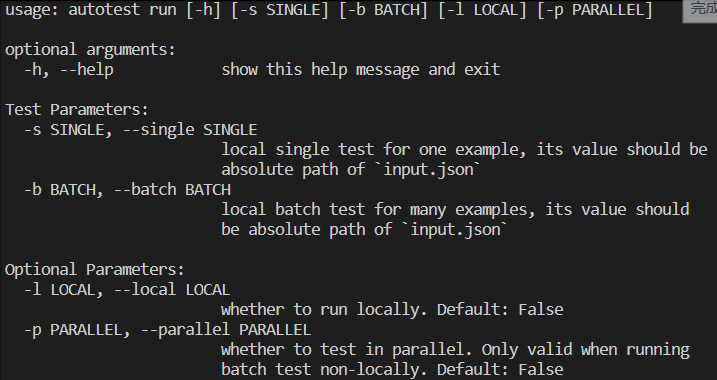
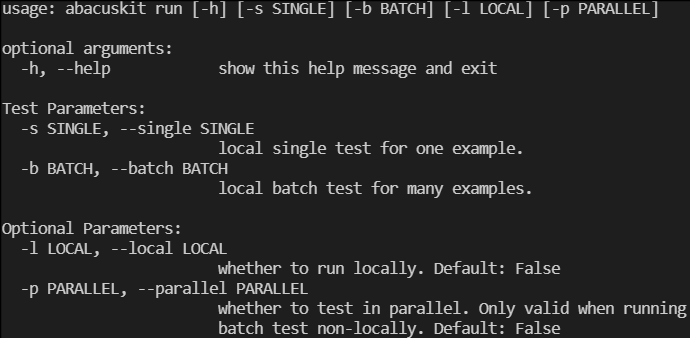
modify Fermi level to zero for band and dos plot

diff --git a/abacuskit/postprocess/plot.py b/abacuskit/postprocess/plot.py
@@ -25,9 +25,36 @@ def energy_minus_efermi(energy:Sequence , efermi:float) -> np.ndarray:
 
     return np.array(energy)-efermi
 
-
 class BandPlot:
     """Plot band structure"""
+
+    @classmethod
+    def set_vcband(cls, energy:Sequence) -> Tuple[namedtuple, namedtuple]:
+        """Separate valence and conduct band
+
+        :params energy: band energy after subtracting the Fermi level
+        """
+
+        e_T = energy.T
+        num_gt_Ef = (e_T > 0).sum(axis=1)
+
+        Band = namedtuple('Band', ['band_index', 'band', 'value', 'k_index'])
+
+        # valance band
+        band_vbm_index = np.where(num_gt_Ef == 0)[0]
+        band_vbm = e_T[band_vbm_index]
+        evbm = np.max(band_vbm)
+        k_vbm_index = np.where(band_vbm == evbm)[1]
+        vb = Band(band_vbm_index, band_vbm-evbm, evbm-evbm, k_vbm_index)
+
+        # conduct band
+        band_cbm_index = np.where(num_gt_Ef != 0)[0]
+        band_cbm= e_T[band_cbm_index]
+        ecbm = np.min(band_cbm)
+        k_cbm_index = np.where(band_cbm == ecbm)[1]
+        cb = Band(band_cbm_index, band_cbm-evbm, ecbm-evbm, k_cbm_index)
+
+        return vb, cb
 
     @classmethod
     def read(cls, filename:str_PathLike) -> Tuple[np.ndarray, np.ndarray]:
@@ -124,10 +151,10 @@ class BandPlot:
             color = 'black'
 
         kpoints, energy = cls.read(datafile)
-        energy = energy_minus_efermi(energy, efermi)
+        vb, cb = cls.set_vcband(energy_minus_efermi(energy, efermi))
 
-        ax.plot(kpoints, energy, lw=0.8, color=color, label=label)
-        cls.info(kpt.full_kpath, energy)
+        ax.plot(kpoints, np.vstack((vb.band, cb.band)).T, lw=0.8, color=color, label=label)
+        cls.info(kpt.full_kpath, vb, cb)
         index = kpt.label_special_k
         cls._set_figure(ax, index, energy_range)
 
@@ -160,16 +187,16 @@ class BandPlot:
         emax = np.inf
         for i, file in enumerate(datafile):
             kpoints, energy = cls.read(file)
-            energy = energy_minus_efermi(energy, efermi[i])
-            energy_min = np.min(energy)
-            energy_max = np.max(energy)
+            vb, cb = cls.set_vcband(energy_minus_efermi(energy, efermi[i]))
+            energy_min = np.min(vb)
+            energy_max = np.max(cb)
             if energy_min>emin:
                 emin = energy_min
             if energy_max<emax:
                 emax = energy_max
 
-            ax.plot(kpoints, energy, lw=0.8, color=color[i], label=label[i])
-            cls.info(kpt.full_kpath, energy)
+            ax.plot(kpoints, np.vstack((vb.band, cb.band)).T, lw=0.8, color=color[i], label=label[i])
+            cls.info(kpt.full_kpath, vb, cb)
         
         index = kpt.label_special_k
         cls._set_figure(ax, index, energy_range)
@@ -177,37 +204,15 @@ class BandPlot:
         plt.savefig(outfile)
 
     @classmethod
-    def bandgap(cls, energy:Sequence):
-        """Calculate band gap
-        
-        :params energy: band energy after subtracting the Fermi level
-        """
+    def bandgap(cls, vb:namedtuple, cb:namedtuple):
+        """Calculate band gap"""
 
-        e_T = energy.T
-        num_gt_Ef = (e_T > 0).sum(axis=1)
+        gap = cb.value-vb.value
 
-        Band = namedtuple('Band', ['band_index', 'band', 'value', 'k_index'])
-
-        # valance band
-        band_vbm_index = np.where(num_gt_Ef == 0)[0]
-        band_vbm = e_T[band_vbm_index]
-        evbm = np.max(band_vbm)
-        k_vbm_index = np.where(band_vbm == evbm)[1]
-        vbm = Band(band_vbm_index, band_vbm, evbm, k_vbm_index)
-
-        # conduct band
-        band_cbm_index = np.where(num_gt_Ef != 0)[0]
-        band_cbm= e_T[band_cbm_index]
-        ecbm = np.min(band_cbm)
-        k_cbm_index = np.where(band_cbm == ecbm)[1]
-        cbm = Band(band_cbm_index, band_cbm, ecbm, k_cbm_index)
-
-        gap = ecbm-evbm
-
-        return gap, vbm, cbm
+        return gap
 
     @classmethod
-    def info(cls, kpath:Sequence, energy:Sequence):
+    def info(cls, kpath:Sequence, vb:namedtuple, cb:namedtuple):
         """Output the information of band structure
         
         :params kpath: k-points path 
@@ -223,16 +228,16 @@ class BandPlot:
                     btype = "Indirect"
             return btype
 
-        gap, vbm, cbm = cls.bandgap(energy)
+        gap = cls.bandgap(vb, cb)
         print("--------------------------Band Structure--------------------------", flush=True)
-        print(f"{'Band character:'.ljust(30)}{band_type(vbm.k_index, cbm.k_index)}", flush=True)
+        print(f"{'Band character:'.ljust(30)}{band_type(vb.k_index, cb.k_index)}", flush=True)
         print(f"{'Band gap(eV):'.ljust(30)}{gap: .4f}", flush=True)
         print(f"{'Band index:'.ljust(30)}{'HOMO'.ljust(10)}{'LUMO'}", flush=True)
-        print(f"{''.ljust(30)}{str(vbm.band_index[-1]).ljust(10)}{str(cbm.band_index[0])}", flush=True)
-        print(f"{'Eigenvalue of VBM(eV):'.ljust(30)}{vbm.value: .4f}", flush=True)
-        print(f"{'Eigenvalue of CBM(eV):'.ljust(30)}{cbm.value: .4f}", flush=True)
-        vbm_k = np.unique(kpath[vbm.k_index], axis=0)
-        cbm_k = np.unique(kpath[cbm.k_index], axis=0)
+        print(f"{''.ljust(30)}{str(vb.band_index[-1]).ljust(10)}{str(cb.band_index[0])}", flush=True)
+        print(f"{'Eigenvalue of VBM(eV):'.ljust(30)}{vb.value: .4f}", flush=True)
+        print(f"{'Eigenvalue of CBM(eV):'.ljust(30)}{cb.value: .4f}", flush=True)
+        vbm_k = np.unique(kpath[vb.k_index], axis=0)
+        cbm_k = np.unique(kpath[cb.k_index], axis=0)
         print(f"{'Location of VBM'.ljust(30)}{' '.join(list_elem2str(vbm_k[0]))}", flush=True)
         for i, j in enumerate(vbm_k):
             if i != 0:
@@ -250,6 +255,49 @@ class DosPlot:
         if eval(string) <= 1e-20:
             string = "0"
         return string
+
+    @classmethod
+    def set_vcband(cls, energy:Sequence) -> Tuple[namedtuple, namedtuple]:
+        """Separate valence and conduct band
+
+        :params energy: band energy after subtracting the Fermi level
+        """
+
+        Band = namedtuple('Band', ['band', 'value'])
+
+        # valance band
+        band_vbm_index = np.where(energy <= 0)[0]
+        band_vbm = energy[band_vbm_index]
+        evbm = np.max(band_vbm)
+        vb = Band(band_vbm-evbm, evbm-evbm)
+
+        # conduct band
+        band_cbm_index = np.where(energy > 0)[0]
+        band_cbm= energy[band_cbm_index]
+        ecbm = np.min(band_cbm)
+        cb = Band(band_cbm-evbm, ecbm-evbm)
+
+        return vb, cb
+
+    @classmethod
+    def info(cls, vb:namedtuple, cb:namedtuple):
+        """Output the information of band structure
+        
+        :params kpath: k-points path 
+        :params energy: band energy after subtracting the Fermi level
+        """
+
+        gap = cls.bandgap(vb, cb)
+        print("--------------------------Density of State--------------------------", flush=True)
+        print(f"{'Band gap(eV):'.ljust(30)}{gap: .4f}", flush=True)
+
+    @classmethod
+    def bandgap(cls, vb:namedtuple, cb:namedtuple):
+        """Calculate band gap"""
+
+        gap = cb.value-vb.value
+
+        return gap
 
     @classmethod
     def read(cls, tdosfile:str_PathLike='', pdosfile:str_PathLike='') -> tuple:
@@ -353,12 +401,14 @@ class DosPlot:
         nsplit = len(res)
         if nsplit == 2:
             energy, dos = res
-            energy = energy_minus_efermi(energy, efermi)
+            vb, cb = cls.set_vcband(energy_minus_efermi(energy, efermi))
+            energy = np.concatenate((vb.band, cb.band))
             ax.plot(energy, dos, lw=0.8, c='gray', linestyle='-', label='TDOS')
                 
         elif nsplit == 3:
             energy, dos_up, dos_dw = res
-            energy = energy_minus_efermi(energy, efermi)
+            vb, cb = cls.set_vcband(energy_minus_efermi(energy, efermi))
+            energy = np.concatenate((vb.band, cb.band))
             dos_dw = -dos_dw
             ax.plot(energy, dos_up, lw=0.8, c='gray', linestyle='-', label=r'$TDOS \uparrow$')
             ax.plot(energy, dos_up, lw=0.8, c='gray', linestyle='--', label=r'$TDOS \downarrow$')
@@ -403,7 +453,9 @@ class DosPlot:
             if not elements:
                 raise TypeError("Only when `pdosfile` and `species` are both set, it will plot PDOS.")
             energy, orbitals = res
-            energy_f = energy_minus_efermi(energy, efermi)
+            vb, cb = cls.set_vcband(energy_minus_efermi(energy, efermi))
+            cls.info(vb, cb)
+            energy_f = np.concatenate((vb.band, cb.band))
 
             # TDOS
             dos, nsplit = cls._all_sum(orbitals)

diff --git a/abacuskit/core/run.py b/abacuskit/core/run.py
@@ -89,11 +89,11 @@ class Run:
                 new_filename = os.path.join(subdst, os.path.basename(filename))
                 write_json(filename, new_filename, src=os.path.join(text["src"], os.path.basename(subsrc)), dst=subdst)
                 os.chdir(subdst)
-                line = f"autotest run --single={new_filename} --local True"
+                line = f"abacuskit run --single={new_filename} --local True"
                 submit_script(new_filename, line)
 
         else:
-            line = f"autotest run --batch={filename} --local True"
+            line = f"abacuskit run --batch={filename} --local True"
             submit_script(filename, line)
 
     @classmethod
@@ -103,7 +103,7 @@ class Run:
         :params filename: absolute path of `input.json`
         """
 
-        line = f"autotest run --single={filename} --local True"
+        line = f"abacuskit run --single={filename} --local True"
         submit_script(filename, line)
 
     @classmethod

diff --git a/setup.py b/setup.py
@@ -12,7 +12,7 @@ if __name__ == "__main__":
         name = 'abacuskit',
         version = '1.0.0',
         packages = find_packages(),
-        description = 'Autotest and Postprocessing tool for ABACUS code',
+        description = 'Autotest and Postprocessing tools for ABACUS code',
         author = 'jiyuyang',
         author_email = 'jiyuyang@mail.ustc.edu.cn',
         url = 'None',

diff --git a/abacuskit/core/main.py b/abacuskit/core/main.py
@@ -12,7 +12,7 @@ from abacuskit.core.show import Show
 import argparse
 
 def main():
-    parser = argparse.ArgumentParser(prog='autotest', description='Auto-test for ABACUS')
+    parser = argparse.ArgumentParser(prog='abacuskit', description='Auto-test and Postprocessing tools for ABACUS')
     subparsers = parser.add_subparsers(help='sub-command help')
 
     # Run

diff --git a/README.md b/README.md
@@ -23,12 +23,16 @@ python setup.py install
 支持命令行模式和脚本模式。命令行模式需要输入文件`input.json`（样例可见`testlib\input.json`，其它可用参数见**附录**），可自动创建提交脚本并提交任务；脚本模式不需要输入文件，调用相关函数即可。
 
 ### 命令行
+![abacuskit](fig/abacuskit.png)
 
 #### 任务提交
 ![run](./fig/run.png)
   
 #### 显示信息
 ![show](./fig/show.png)
+
+#### 文件转换
+![convert](./fig/convert.png)
 
 ## 测试库
 执行自动测试的前提时需要准备一个测试库（样例可见`testlib`），准备好后，每次测试只需指定测试库所在路径（`src`）即可。测试库中必须包含配置文件`config.json`（配置参数可见**附录**）以及配置文件中指定的其它输入文件。
